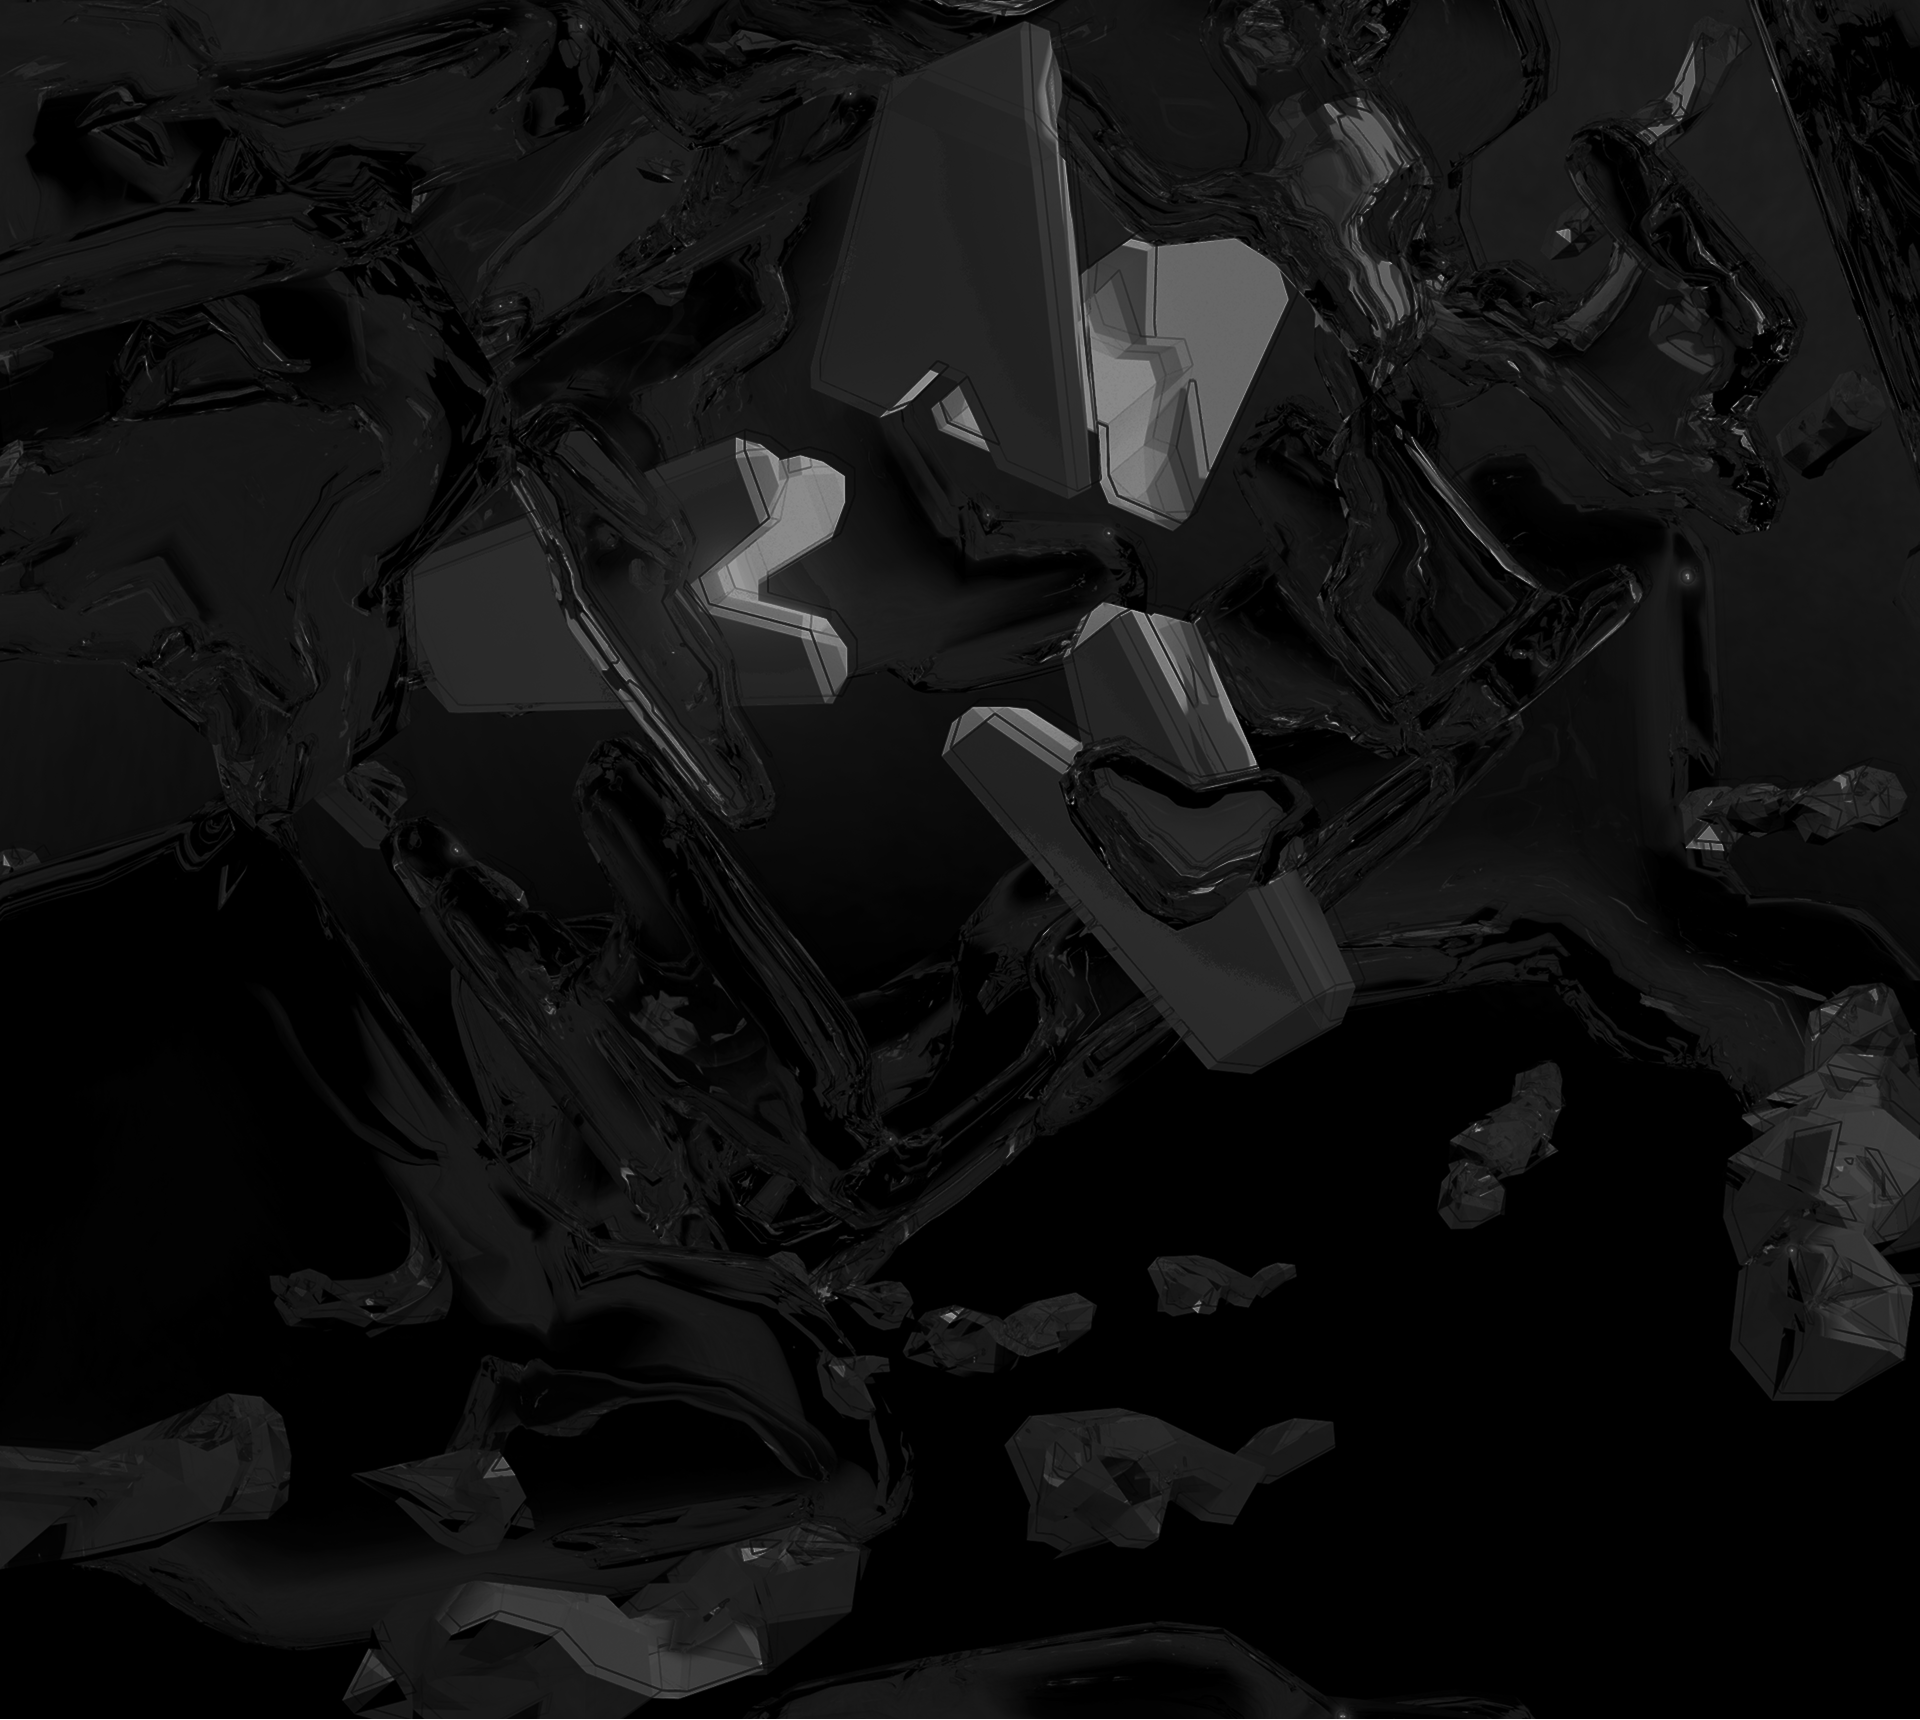
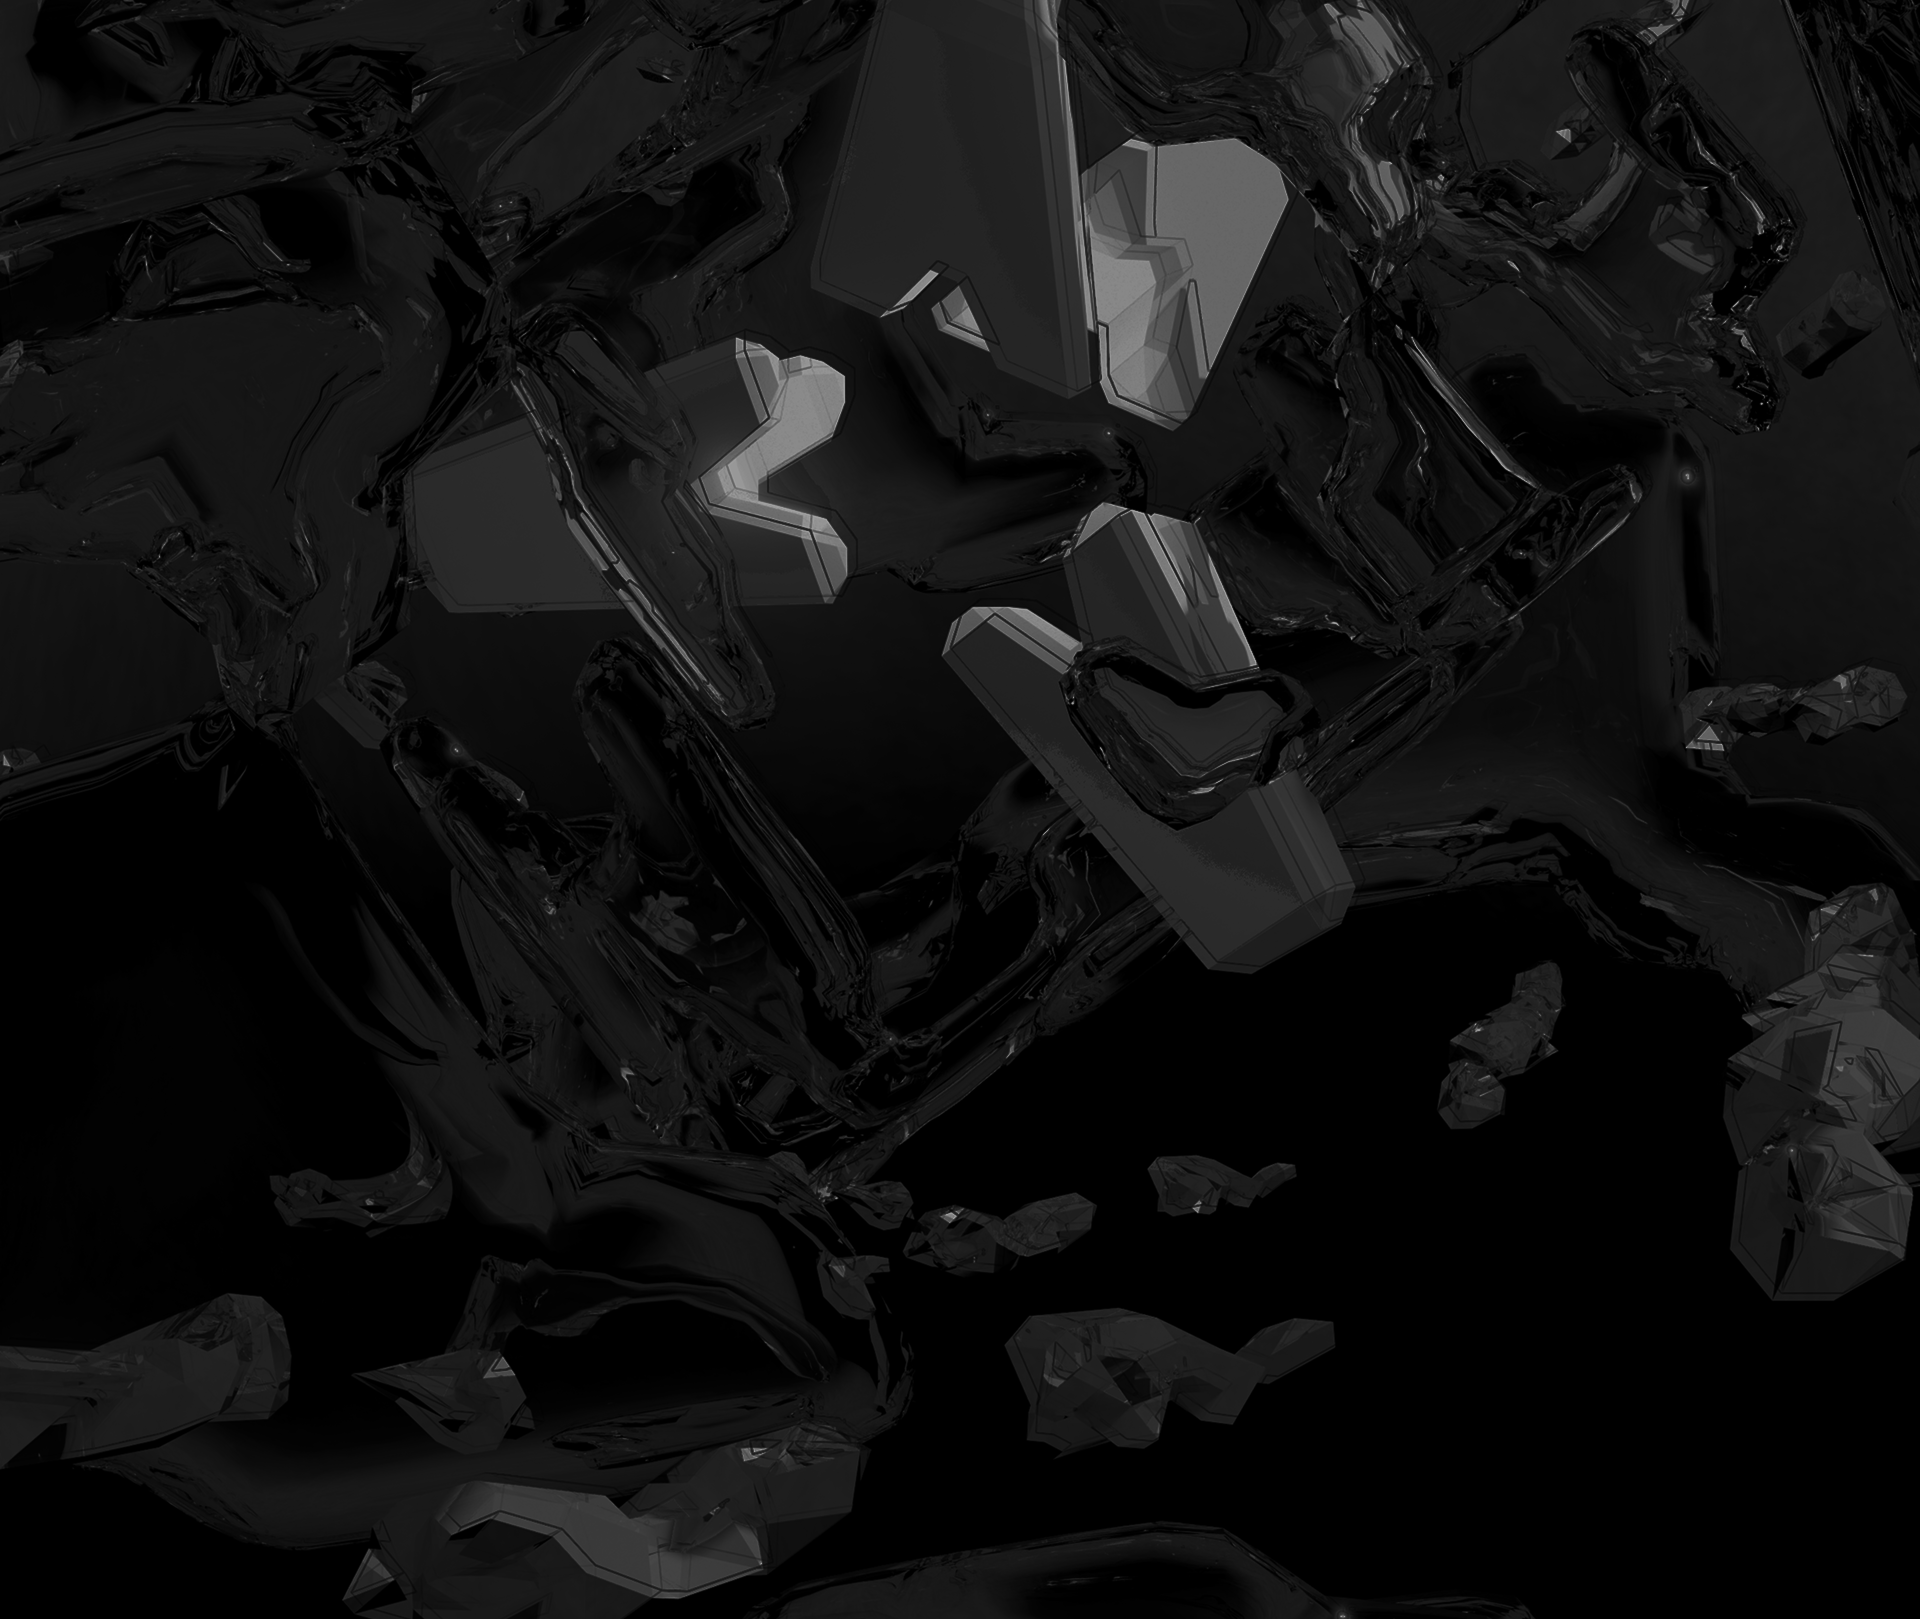
背景画像のサイズ調整ロジック変更

diff --git a/public/001/css/style.css b/public/001/css/style.css
@@ -80,8 +80,13 @@ address, a[href^="tel"], a[href^="maps"] {
   box-sizing: border-box;
 }
 
+.fixed-header > a {
+  flex-shrink: 0;
+}
+
 .header-logo {
   width: clamp(150px, 15vw, 238px);
+  min-width: 150px;
   height: auto;
 }
 
@@ -102,12 +107,12 @@ address, a[href^="tel"], a[href^="maps"] {
    ========================================= */
 .bg-image-main {
   position: absolute;
-  top: 0;
+  top: 100px;
   left: 50%;
   transform: translateX(-50%); /* 左右中央揃え */
   
-  width: 100%;
-  max-width: 1920px; /* 原寸以上にはしない */
+  width: clamp(1000px, 160vw, 1920px);
+  max-width: none; /* グローバルのmax-width: 100%を解除 */
   
   z-index: 0; /* コンテンツより奥 */
   pointer-events: none;
@@ -189,7 +194,7 @@ section {
 
 .banner-img {
   width: 100%;
-  max-width: 598px;
+  max-width: 1000px;
   min-width: 280px;
   flex: 1 1 400px;
   border-radius: 4px;
@@ -234,7 +239,7 @@ section {
 /* グリッドレイアウト */
 .tt-cols-header, .tt-body-grid {
   display: grid;
-  grid-template-columns: 1fr 1.2fr 1.2fr;
+  grid-template-columns: max-content 1fr 1fr;
   width: 100%;
   max-width: 800px;
   padding: 0 10px;
@@ -247,7 +252,17 @@ section {
   text-align: center;
   align-items: end;
 }
-.tt-col-dummy { grid-column: 1; }
+.tt-col-dummy { 
+  grid-column: 1;
+  /* width指定ではなく、中身のテキストで見えないように幅を確保する */
+  visibility: hidden; 
+}
+.tt-col-dummy::before {
+  content: "00:00 - 00:00"; /* 幅確保用ダミーテキスト */
+  font-family: 'Lexend Mega', sans-serif;
+  font-size: clamp(16px, 2.5vw, 32px);
+  white-space: nowrap;
+}
 .tt-col-dj { grid-column: 2; font-family: 'Lexend Mega', sans-serif; font-weight: 700; font-size: clamp(16px, 2vw, 24px); }
 .tt-col-vj { grid-column: 3; font-family: 'Lexend Mega', sans-serif; font-weight: 700; font-size: clamp(16px, 2vw, 24px); }
 

diff --git a/public/2026sci/css/style.css b/public/2026sci/css/style.css
@@ -80,8 +80,13 @@ address, a[href^="tel"], a[href^="maps"] {
   box-sizing: border-box;
 }
 
+.fixed-header > a {
+  flex-shrink: 0;
+}
+
 .header-logo {
   width: clamp(150px, 15vw, 238px);
+  min-width: 150px;
   height: auto;
 }
 
@@ -102,12 +107,12 @@ address, a[href^="tel"], a[href^="maps"] {
    ========================================= */
 .bg-image-main {
   position: absolute;
-  top: 0;
+  top: 100px;
   left: 50%;
   transform: translateX(-50%); /* 左右中央揃え */
   
-  width: 100%;
-  max-width: 1920px; /* 原寸以上にはしない */
+  width: clamp(1000px, 160vw, 1920px);
+  max-width: none; /* グローバルのmax-width: 100%を解除 */
   
   z-index: 0; /* コンテンツより奥 */
   pointer-events: none;
